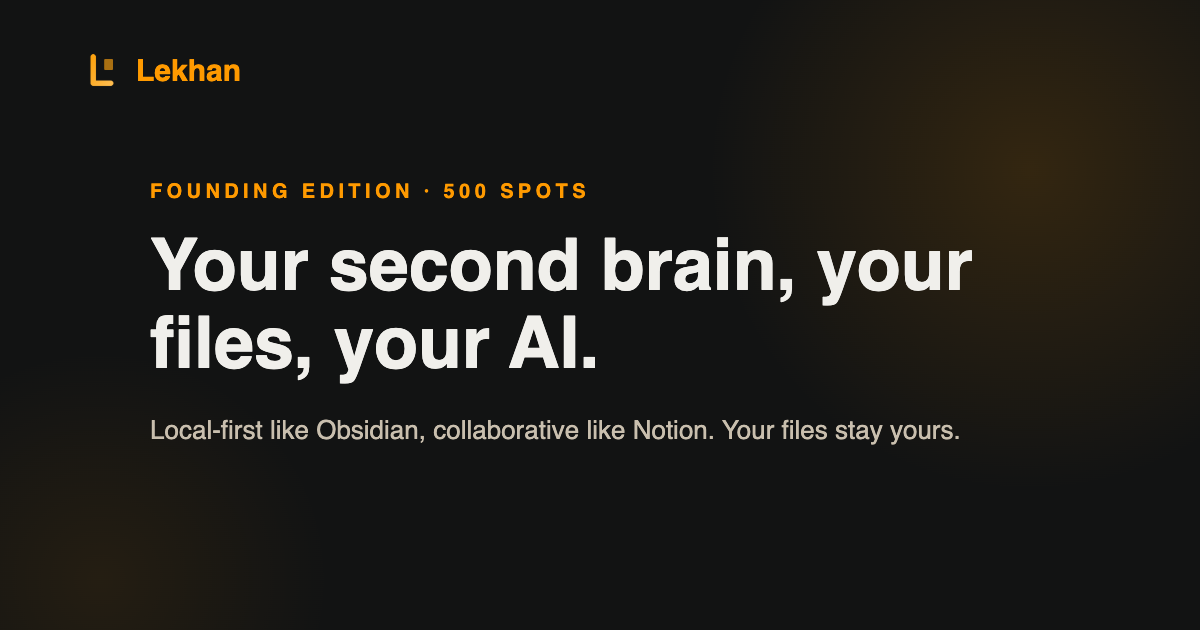
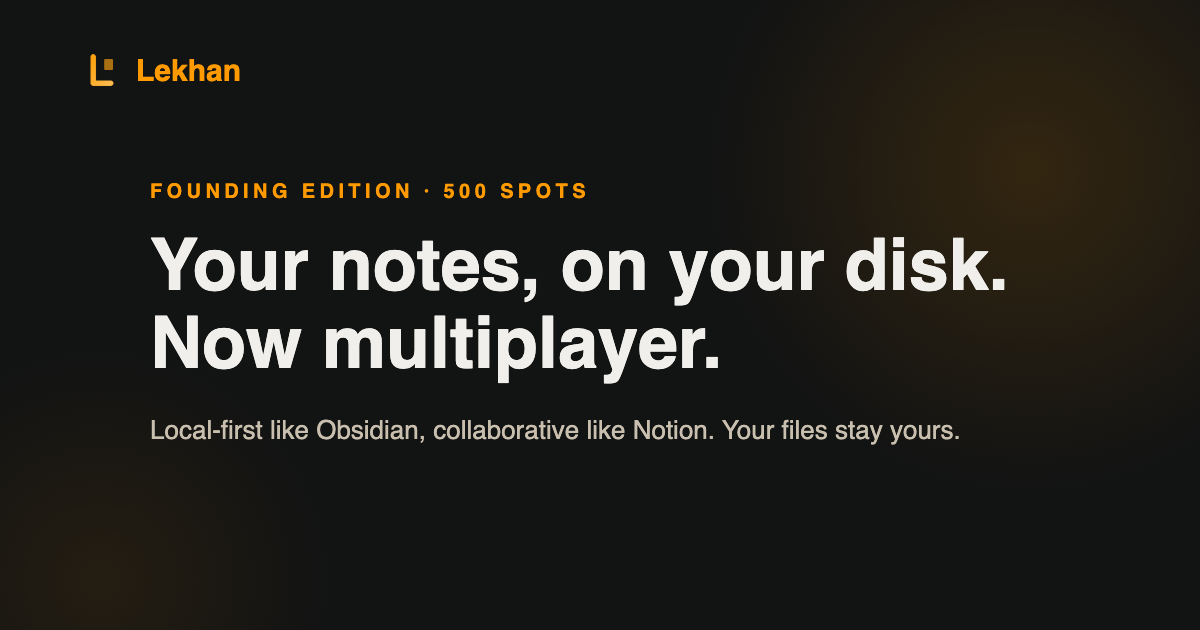
fix(93): review round — plaintext-key guard, unshipped AI claims out of principles + H1
Valid findings fixed:
- saveEncryptedApiKey now refuses to persist when WebCrypto is
  unavailable (encryptApiKey silently returned plaintext, stored raw
  while the toast claimed AES-256 success). Throws a clear error; the
  connect flow surfaces it and saves nothing. Read path keeps legacy
  compatibility.
- PRODUCT.md principle 2 stated the unshipped browser-direct/local-model
  architecture as a principle — reworded to the durable ownership value,
  provider epic #28 labelled as the open work.
- H1, layout title, CTA h2 and OG card dropped 'your AI' / second-brain
  phrasing; H1 adopts the owner-approved Stitch headline ('Your notes,
  on your disk. Now multiplayer.') which makes no architecture claim.

Skipped: none — both findings verified valid against code.

Changed region(s): [[0.1233, 0.3619, 0.8325, 0.6032]]

diff --git a/components/landing-page.tsx b/components/landing-page.tsx
@@ -75,8 +75,8 @@ export default function LandingPage() {
 						</div>
 
 						<h1 className="font-display-lg-mobile md:text-display-lg text-4xl sm:text-5xl md:text-6xl lg:text-[64px] font-bold text-on-surface mb-6 leading-[1.1]">
-							Your second brain, <br className="hidden md:block" />
-							your files, your AI.
+							Your notes, <br className="hidden md:block" />
+							on your disk. Now multiplayer.
 						</h1>
 
 						<p className="text-md md:text-xl text-on-surface-variant mb-10 max-w-lg">
@@ -237,7 +237,7 @@ export default function LandingPage() {
 						<div className="absolute inset-0 opacity-10 pointer-events-none">
 							<div className="absolute top-0 left-0 w-full h-full" style={{ backgroundImage: 'radial-gradient(circle at 2px 2px, white 1.5px, transparent 0)', backgroundSize: '32px 32px' }}></div>
 						</div>
-						<h2 className="font-display-md text-3xl sm:text-4xl md:text-5xl font-bold text-on-primary mb-6">Your second brain deserves files, not a walled garden.</h2>
+						<h2 className="font-display-md text-3xl sm:text-4xl md:text-5xl font-bold text-on-primary mb-6">Your notes deserve files, not a walled garden.</h2>
 						<p className="text-lg md:text-xl text-on-primary-fixed-variant mb-10 max-w-2xl mx-auto">Import your vault, collaborate in real time, and export everything whenever you want.</p>
 						<button
 							onClick={() => router.push('/signup')}

diff --git a/lib/crypto.ts b/lib/crypto.ts
@@ -81,8 +81,16 @@ export async function decryptApiKey(cipherText: string): Promise<string> {
 }
 
 export async function saveEncryptedApiKey(plainKey: string): Promise<void> {
-	if (typeof window === 'undefined') return
-	const encrypted = await encryptApiKey(plainKey.trim())
+	if (typeof window === 'undefined') {
+		throw new Error('Secure storage is unavailable in this context.')
+	}
+	const trimmed = plainKey.trim()
+	const encrypted = await encryptApiKey(trimmed)
+	if (!encrypted || encrypted === trimmed) {
+		// WebCrypto unavailable: refuse to persist the plaintext fallback —
+		// the UI promises AES-256-GCM and must keep that promise or save nothing.
+		throw new Error('Secure encryption is not available in this browser. The key was not saved.')
+	}
 	localStorage.setItem(STORAGE_KEY, encrypted)
 	localStorage.removeItem(LEGACY_STORAGE_KEY)
 }

diff --git a/app/layout.tsx b/app/layout.tsx
@@ -9,7 +9,7 @@ import { GlobalHeaderProvider } from '@/components/layout/global-header-context'
 
 export const metadata: Metadata = {
 	title: {
-		default: 'Lekhan — Your second brain, your files, your AI',
+		default: 'Lekhan — Your notes, on your disk. Now multiplayer',
 		template: '%s | Lekhan',
 	},
 	description: 'Write, edit, and collaborate in real-time with Lekhan. A local-first editor with zero typing latency, full offline support, and AI assistance. Start writing free.',

diff --git a/PRODUCT.md b/PRODUCT.md
@@ -44,7 +44,7 @@ Real, demonstrable: vault import with fidelity report; live multiplayer editing;
 ## Product Principles
 
 1. Files stay files — leaving is an export button, not a migration project.
-2. Keys stay yours — AI runs browser-direct on the user's provider keys or local models.
+2. User ownership is non-negotiable — data and keys stay under the user's control in every architecture we ship (the AI layer must earn this, provider epic #28).
 3. Honest scarcity and honest claims — real caps, real numbers, nothing invented. Claims must match shipped implementation; strategy targets are labelled as such.
 4. Local-first is architectural, not a checkbox.
 5. Developer-respectful plain speech over marketing gloss.
